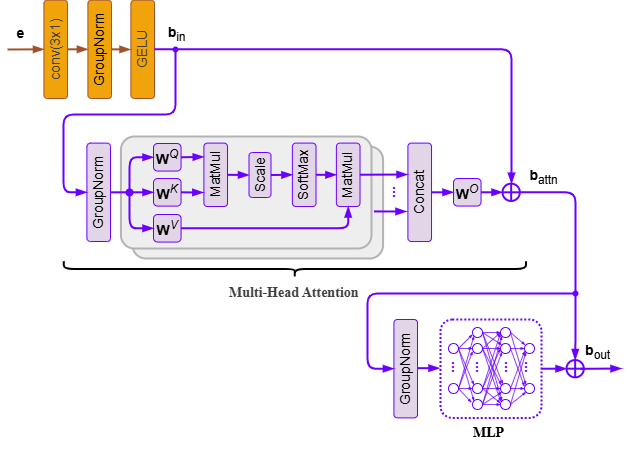
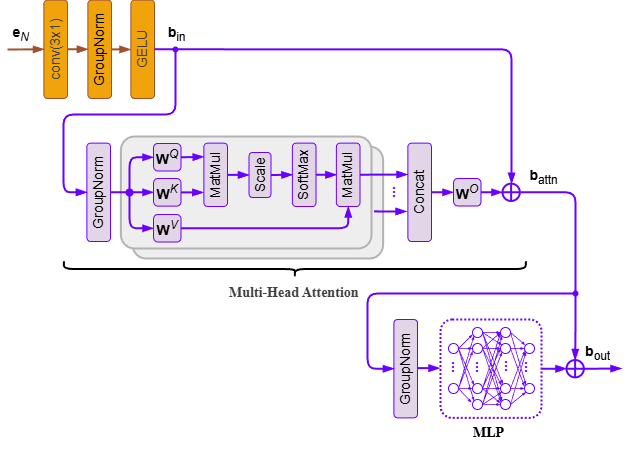
Update.

diff --git a/chapters/parametersEstimation/modelArchitecture.tex b/chapters/parametersEstimation/modelArchitecture.tex
@@ -1,6 +1,6 @@
 \section{Архитектура модели}
 
-Модель основана на архитектуре энкодер-декодер (рис.~\ref{fig:model_block_diagram}), выполняющей преобразование ${C_{\text{in}}}$-канального тензора длиной ${L_1}$ в ${C_{\text{out}}}$-канальный тензор той же длины:
+Модель основана на архитектуре энкодер-декодер (рис.~\ref{fig:model_block_diagram}), состоящей из $N$-уровней и выполняющей преобразование ${C_{\text{in}}}$-канального тензора длиной ${L_1}$ в ${C_{\text{out}}}$-канальный тензор той же длины:
 \begin{equation*}
     \textbf{Y}: \, \mathbb{R}^{C_{\text{in}} \times L_1} \mapsto \mathbb{R}^{C_{\text{out}} \times L_1}.
 \end{equation*}
@@ -17,15 +17,15 @@
 \begin{itemize}
     \item Кодирование в скрытое (латентное) пространство (CNN-энкодер):
         \begin{equation*}
-            \textbf{E}: \, \mathbb{R}^{F_0 \times L_1} \mapsto \mathbb{R}^{F_3 \times L_3}.
+            \textbf{E}: \, \mathbb{R}^{F_0 \times L_1} \mapsto \mathbb{R}^{F_N \times L_N}.
         \end{equation*}
     \item Выделение наиболее информативных признаков в скрытом пространстве (\enquote{Bottleneck}):
         \begin{equation*}
-            \textbf{T}: \, \mathbb{R}^{F_3 \times L_3} \mapsto \mathbb{R}^{F_4 \times L_4} \mapsto \mathbb{R}^{F_4 \times L_4}.
+            \textbf{T}: \, \mathbb{R}^{F_N \times L_N} \mapsto \mathbb{R}^{F_{N+1} \times L_{N+1}} \mapsto \mathbb{R}^{F_{N+1} \times L_{N+1}}.
         \end{equation*}
     \item Декодирование из скрытого пространства (CNN-декодер):
         \begin{equation*}
-            \textbf{D}: \, \mathbb{R}^{F_4 \times L_4} \mapsto \mathbb{R}^{F_1 \times L_1}.
+            \textbf{D}: \, \mathbb{R}^{F_{N+1} \times L_{N+1}} \mapsto \mathbb{R}^{F_1 \times L_1}.
         \end{equation*}
 \end{itemize}
 
@@ -37,20 +37,20 @@
 
 Операция свертки на входе \enquote{Bottleneck} предназначена для проекции числа каналов
 \begin{equation*}
-    \mathbb{R}^{F_3 \times L_4} \mapsto \mathbb{R}^{F_4 \times L_4},
+    \mathbb{R}^{F_N \times L_{N+1}} \mapsto \mathbb{R}^{F_{N+1} \times L_{N+1}},
 \end{equation*}
 и включает в себя нормализацию и активацию.
 
 Операции свертки на выходе модели выполняют аналогичную функцию проекции числа каналов, но уже без нормализации и активации:
 \begin{equation*}
     \begin{aligned}
-        \mathbf{d}_n \in \mathbb{R}^{F_n \times L_n} &\mapsto \mathbf{d}'_3 \in \mathbb{R}^{C_\text{out} \times L_n}, \\
+        \mathbf{d}_n \in \mathbb{R}^{F_n \times L_n} &\mapsto \mathbf{d}'_n \in \mathbb{R}^{C_\text{out} \times L_n}, \\
         \mathbf{d}'_n = & \mathbf{W}_n^\text{DS} \ast \mathbf{d}_n,
     \end{aligned}
 \end{equation*}
 где \enquote{${\ast}$} -- операция свертки, ${\mathbf{W}_n^\text{DS} \in \mathbb{R}^{C_\text{out} \times F_n \times KS}}$, ${KS}$ -- размер ядра (\enquote{Kernel Size}). Количество каналов ${C_\text{out}}$ соответствует количеству детектируемых объектов. Выходные тензоры ${\mathbf{d}'_n}$ представляют собой логиты.
 
-Выходы глубокого супервизирования (\enquote{Deep Supervision} \cite{lee2015deeply}) с промежуточных слоев декодера ${\mathbf{d}'_2}$, ${\mathbf{d}'_3}$ используются только на этапе обучения модели с целью повысить глубину обучения.
+Выходы глубокого супервизирования (\enquote{Deep Supervision} \cite{lee2015deeply}) с промежуточных слоев декодера ${\mathbf{d}'_n}$, ${n > 1}$, используются только на этапе обучения модели с целью повысить глубину обучения.
 
 Выделение бинарных масок ${\hat{y}_i}$, ${i \in \{1, \dots, L_1\}}$, осуществляется преобразованием логитов ${d_i}$ основного выхода модели ${\mathbf{d}'_1}$:
 \begin{equation}\label{eqn:logit2mask}
@@ -105,11 +105,11 @@ ${\tau}$ -- пороговый уровень, ${\tau \in \left[0; 1 \right]}$.
     \mathbf{e}_{n} \rightarrow \mathbf{e}_{n}{\downarrow_2}.
 \end{equation*}
 
-Регуляризация во время обучения выполняется алгоритмом \enquote{nn.Dropout1d} на выходе второй свертки.
+Регуляризация во время обучения выполняется алгоритмом \enquote{nn.Dropout1d}, выполняемым на выходе второй свертки.
 
-Таким образом, в энкодере выполняется последовательное увеличение числа каналов (\enquote{фичей}) с одновременным уменьшением длины тензора.
+Таким образом, в энкодере производится последовательное увеличение числа каналов (\enquote{фичей}) с одновременным уменьшением длины тензора.
 
-\subsection{Bottleneck}
+\subsection{\enquote{Bottleneck}}
 \enquote{Bottleneck} реализован на основе трансформера (рис.~\ref{fig:bottleneck_block_diagram}), с предварительной проекцией числа каналов на входе.
 
 \begin{figure}[H]
@@ -120,27 +120,27 @@ ${\tau}$ -- пороговый уровень, ${\tau \in \left[0; 1 \right]}$.
 	\label{fig:bottleneck_block_diagram}
 \end{figure}
 
-На вход \enquote{bottleneck} поступает тензор ${\mathbf{e}_3 \in \mathbb{R}^{F_3 \times L_3}}$ с выхода энкодера. Тензор преобразуется к ${\mathbf{b}_\text{in} \in \mathbb{R}^{F_4 \times L_4}}$:
+На вход \enquote{bottleneck} поступает тензор ${\mathbf{e}_N \in \mathbb{R}^{F_N \times L_N}}$ с выхода энкодера. Тензор преобразуется к ${\mathbf{b}_\text{in} \in \mathbb{R}^{F_{N+1} \times L_{N+1}}}$:
 \begin{equation*}
     \mathbf{b}_\text{in} = \sigma\left(\mathcal{N}^P\left(\mathbf{W}^P \ast \mathbf{e}_3{\downarrow_2}\right)\right),
 \end{equation*}
-где ${\mathbf{W}^P \in \mathbb{R}^{F_4 \times F_3 \times KS}}$, и к \enquote{permute}-формату ${\mathbf{b}_\text{in.perm} \in \mathbb{R}^{L_4 \times F_4}}$:
+где ${\mathbf{W}^P \in \mathbb{R}^{F_{N+1} \times F_N \times KS}}$, и к \enquote{permute}-формату ${\mathbf{b}_\text{in.perm} \in \mathbb{R}^{L_{N+1} \times F_{N+1}}}$:
 \begin{equation*}
     \mathbf{b}_\text{in} \rightarrow \mathcal{N}^H\left(\mathbf{b}_\text{in}\right) \rightarrow \mathbf{b}_\text{in.perm}
 \end{equation*}
-для совместимости с популярной реализацией алгоритма \enquote{Multi-Head Self-Attention} (MHSA) \cite{vaswani2017attention}. Тензор разбивается на $h$-\enquote{голов} с количеством каналов ${d_{k}=F_4/h}$ в каждой голове. Результаты вычисления $h$-\enquote{голов}
+для совместимости с популярной реализацией алгоритма \enquote{Multi-Head Self-Attention} (MHSA) \cite{vaswani2017attention}. Тензор разбивается на $h$-\enquote{голов} с количеством каналов ${d_{k}=F_{N+1}/h}$ в каждой голове. Результаты вычисления $h$-\enquote{голов}
 \begin{equation*}
     \mathbf{H}_m = \text{Softmax}\left(\frac{\mathbf{Q}_m \mathbf{K}_m^\top}{\sqrt{d_k}}\right) \mathbf{V}_m,
 \end{equation*}
-${\mathbf{H}_m \in \mathbb{R}^{L_4 \times d_k}}$, ${m \in \{1, \dots, h\}}$, объединяются в единый тензор
+${\mathbf{H}_m \in \mathbb{R}^{L_{N+1} \times d_k}}$, ${m \in \{1, \dots, h\}}$, объединяются в единый тензор
 \begin{equation*}
     \mathbf{MH}_\text{perm} = \text{cat}(\mathbf{H}_1, \dots, \mathbf{H}_h)\mathbf{W}^O,
 \end{equation*}
-где \enquote{${\text{cat}(\cdot)}$} -- операция слияния по каналам, ${\mathbf{W}^O \in \mathbb{R}^{F_4 \times F_4}}$.
+где \enquote{${\text{cat}(\cdot)}$} -- операция слияния по каналам, ${\mathbf{W}^O \in \mathbb{R}^{F_{N+1} \times F_{N+1}}}$.
 
-${\mathbf{MH}_\text{perm} \in \mathbb{R}^{L_4 \times F_4}}$ получается того же размера, что и ${\mathbf{b}_\text{in.perm}}$.
+${\mathbf{MH}_\text{perm} \in \mathbb{R}^{L_{N+1} \times F_{N+1}}}$ получается того же размера, что и ${\mathbf{b}_\text{in.perm}}$.
 
-Входные переменные алгоритма MHSA ${\mathbf{Q}_m, \mathbf{K}_m, \mathbf{V}_m \in \mathbb{R}^{L_4 \times d_k}}$ формируются в результате линейной проекции входа
+Входные переменные алгоритма MHSA ${\mathbf{Q}_m, \mathbf{K}_m, \mathbf{V}_m \in \mathbb{R}^{L_{N+1} \times d_k}}$ формируются в результате линейной проекции входа
 \begin{equation*}
     \begin{aligned}
         \mathbf{Q}_m &= \mathbf{b}_\text{in.perm} \mathbf{W}_m^Q, \\
@@ -150,7 +150,7 @@ ${\mathbf{MH}_\text{perm} \in \mathbb{R}^{L_4 \times F_4}}$ получается
 \end{equation*}
 через соответствующие матрицы
 \begin{equation*}
-    \mathbf{W}_m^Q, \mathbf{W}_m^K, \mathbf{W}_m^V \in \mathbb{R}^{F_4 \times d_{k}}.
+    \mathbf{W}_m^Q, \mathbf{W}_m^K, \mathbf{W}_m^V \in \mathbb{R}^{F_{N+1} \times d_{k}}.
 \end{equation*}
 
 Результирующим выходом алгоритма MHSA является сумма полученного тензора со входным тензором:
@@ -169,8 +169,8 @@ ${\mathbf{MH}_\text{perm} \in \mathbb{R}^{L_4 \times F_4}}$ получается
 
 \begin{flalign*}
     & \begin{aligned}
-        \mathbf{W}^{1\text{MLP}} &\in \mathbb{R}^{(r \cdot F_4) \times F_4}, \\
-        \mathbf{W}^{2\text{MLP}} &\in \mathbb{R}^{F_4 \times (r \cdot F_4)}.
+        \mathbf{W}^{1\text{MLP}} &\in \mathbb{R}^{(r \cdot F_{N+1}) \times F_{N+1}}, \\
+        \mathbf{W}^{2\text{MLP}} &\in \mathbb{R}^{F_{N+1} \times (r \cdot F_{N+1})}.
     \end{aligned} &
 \end{flalign*}
 

diff --git a/chapters/parametersEstimation/train.tex b/chapters/parametersEstimation/train.tex
@@ -74,8 +74,13 @@
 
 Обучение выполнено на NVIDIA GeForce RTX3060 (12~ГБ), torch=2.6.0, CUDA=12.6, cuDNN=9.5.1 при следующих гиперпараметрах:
 \begin{itemize}
-    \item Весовые коэффициенты функции ошибки: ${w^\text{BCE}=\num{0.25}}$, ${w^\text{Dice}=\num{0.75}}$.
-    \item Весовые коэффициенты глубокого супервизирования: ${w_1 = \num{1.00}}$, ${w_2 = \num{0.50}}$, ${w_3 = \num{0.25}}$.
+    \item Количество уровней энкодера: ${N=4}$.
+    \item Количество каналов (\enquote{фичей}):\par
+    ${F_0=32}$, ${F_1=32}$, ${F_2=64}$, ${F_3=128}$, ${F_4=256}$, ${F_5=512}$.
+    \item Весовые коэффициенты функции ошибки:\par
+    ${w^\text{BCE}=\num{0.25}}$, ${w^\text{Dice}=\num{0.75}}$.
+    \item Весовые коэффициенты глубокого супервизирования:\par
+    ${w_1 = \num{1.00}}$, ${w_2 = \num{0.50}}$, ${w_3 = \num{0.25}}$, ${w_4 = \num{0.125}}$.
     \item Размер батча: 360.
     \item Решатель: \enquote{Adam}.
 \end{itemize}

diff --git a/chapters/frequencyResponse/procedure.tex b/chapters/frequencyResponse/procedure.tex
@@ -77,7 +77,7 @@ def find_multipliers(fz: float, fd: float, err_rel_ref: float,
     R = fd / fz
     if R < 2:
         raise ValueError("fz must be < fd/2 for a valid solution.")
-    err_abs_ref = fz*err_rel_ref
+    err_abs_ref = fz * err_rel_ref
     Mmax = int(R / 2)
     N_vals = np.arange(Nmin, Nmax + 1, dtype=float)
     N_arr = np.empty(Mmax, dtype=np.int64)

diff --git a/chapters/parametersEstimation/preprocessing.tex b/chapters/parametersEstimation/preprocessing.tex
@@ -3,3 +3,5 @@
 Диапазон изменения входных данных составляет до 6 порядков -- от -60~дБ до +60~дБ. При этом, изменения характеристик в отдельных участках частот могут составлять единицы децибел. В связи с этим, типовые нормировки вида norm/std, min/max делают модель нечувствительными к малым изменениям характеристики.
 
 Принято решение перейти от абсолютных значений амплитуды и фазы к наклонам этих характеристик.
+
+Количество каналов ${C_\text{in}=4}$. Длина каждого канала приводится к ${L_1=512}$ путем интерполяции. Массивы должны соответствовать логарифмическому масштабу по частоте.